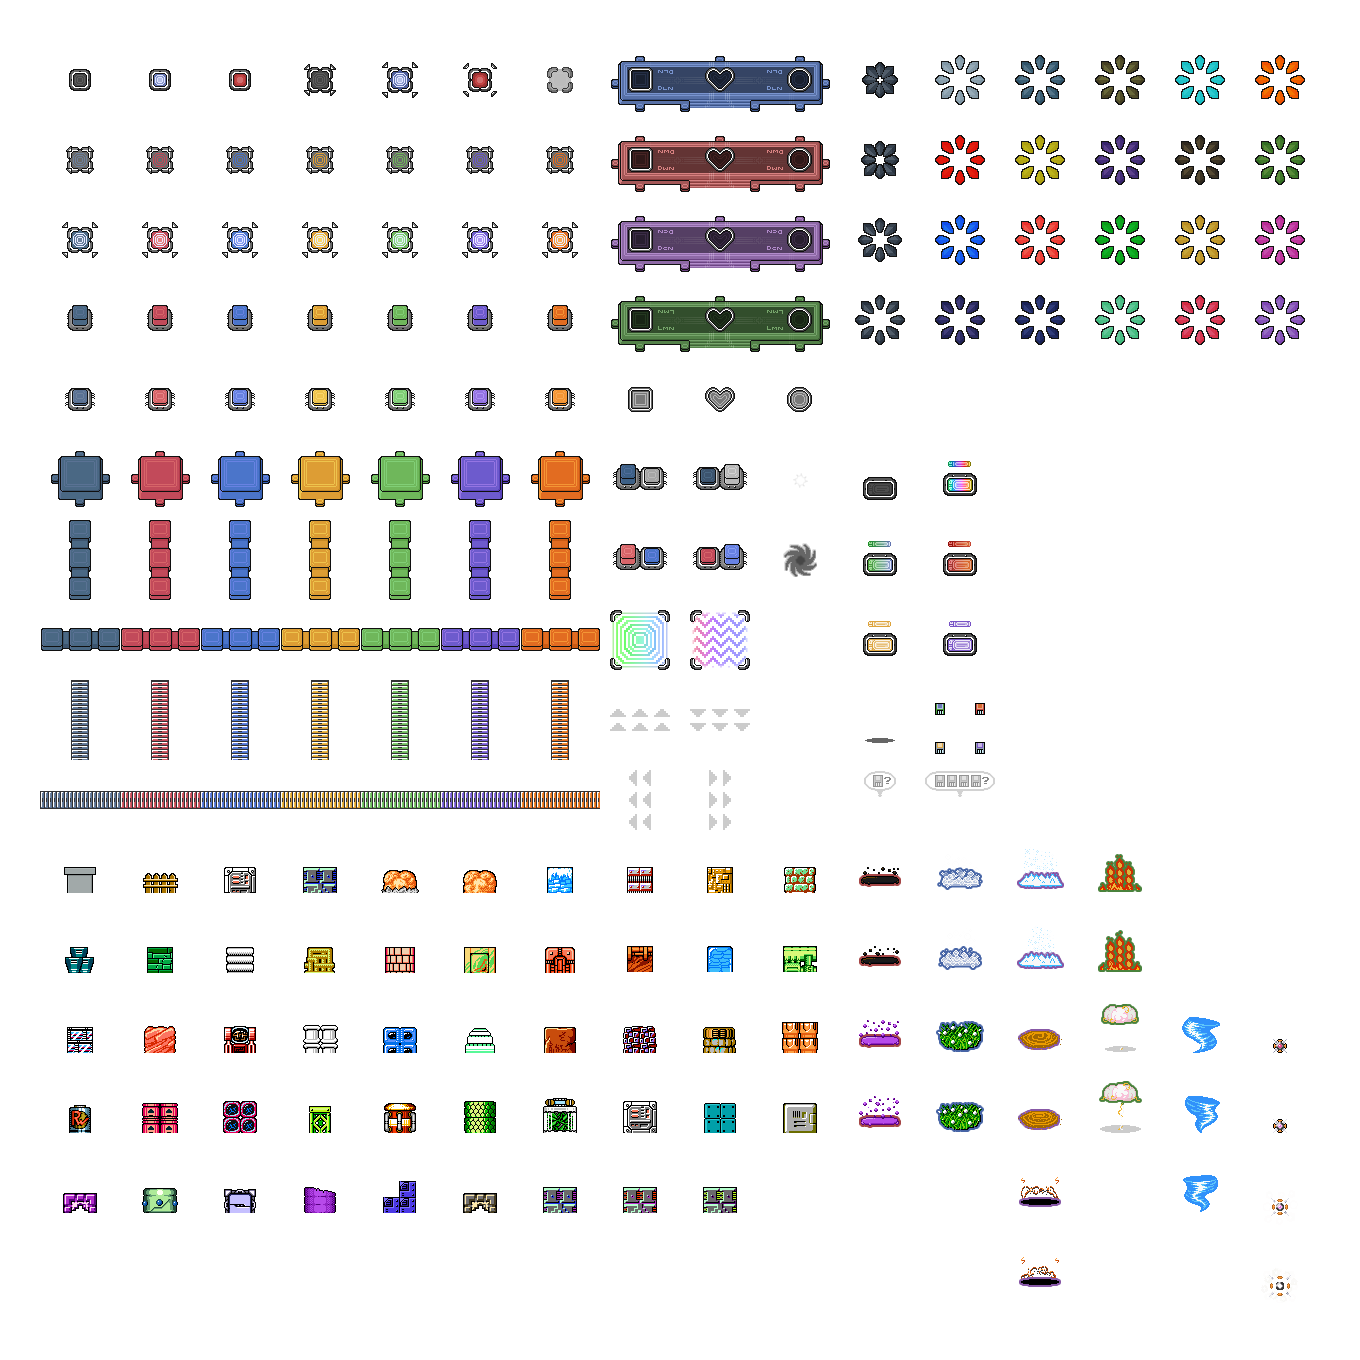
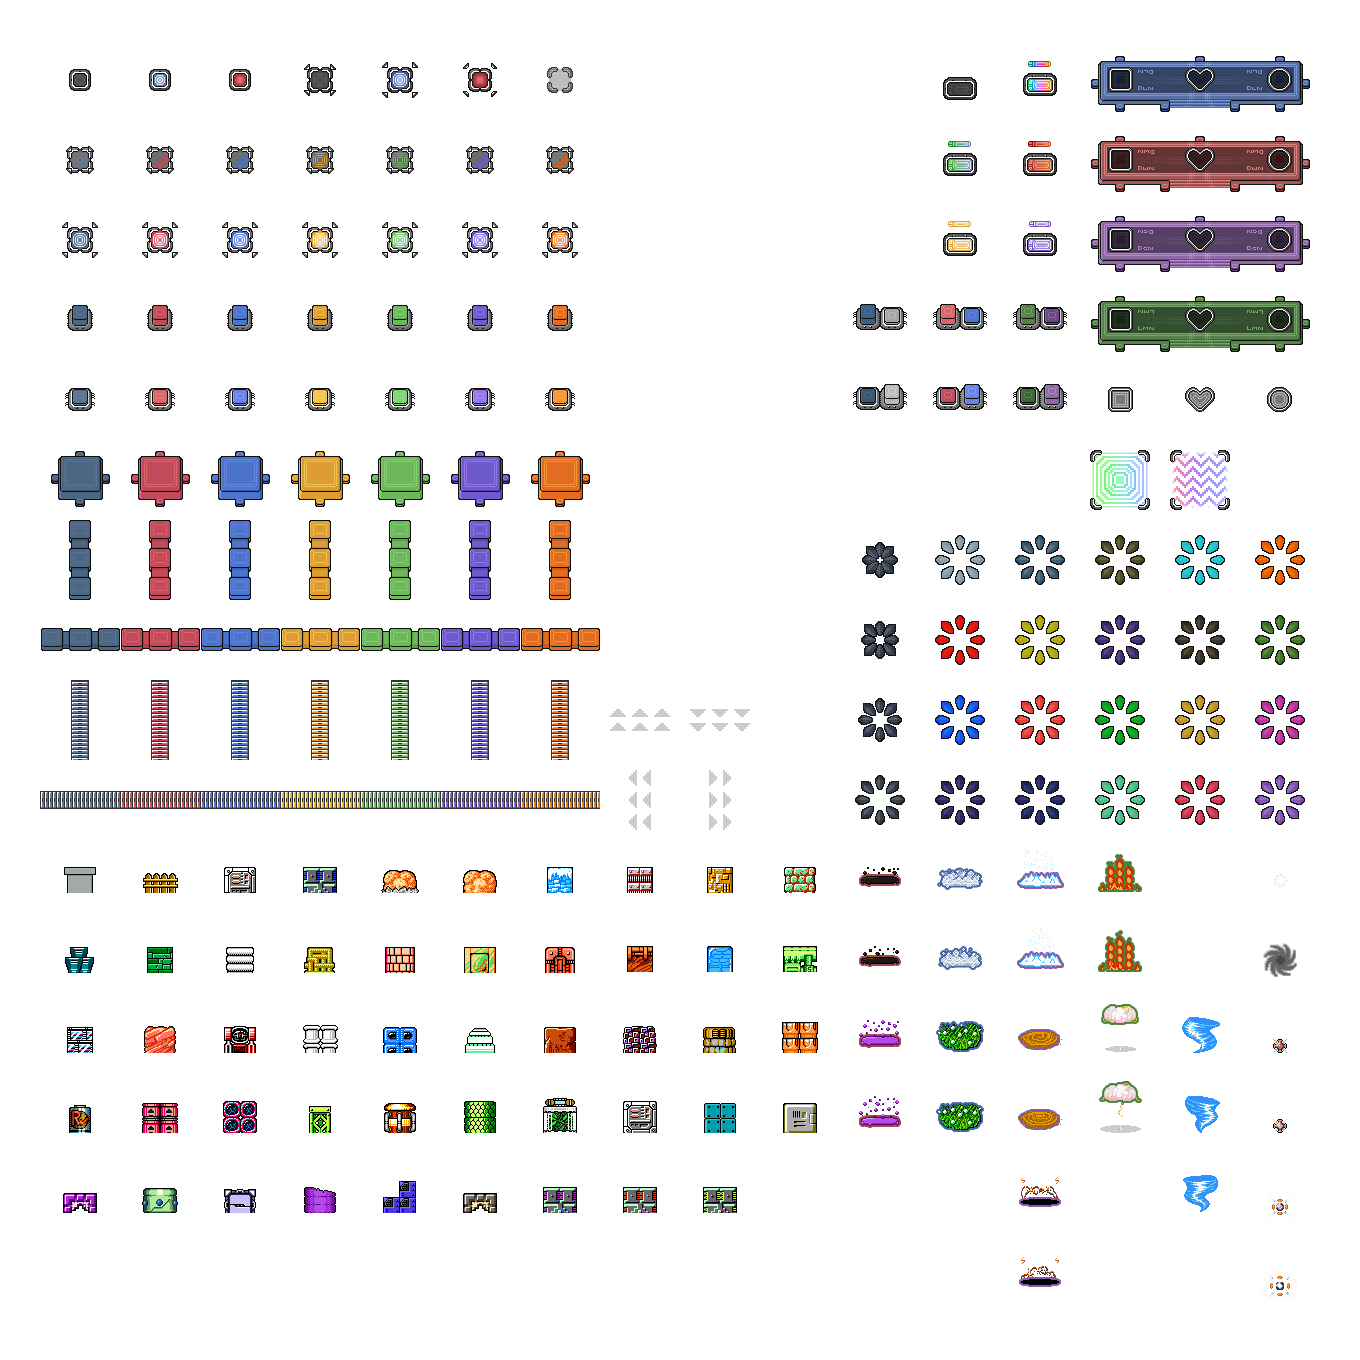
Rearranged world object tilesheet w/ better organization and updated relevant CSS styles

diff --git a/styles/world.css b/styles/world.css
@@ -538,8 +538,49 @@ html, body {
 #world #map .sprite.tile[data-portal="exit"] { background-position: -440px -40px; }
 #world #map .sprite.tile.portal.hidden { display: none; }
 
-#world #map .sprite.event.healpad { background-position: -600px -600px; }
-#world #map .sprite.event.resetpad { background-position: -680px -600px; }
+@keyframes world-sprite-playerpad-glow {
+    0%, 100% { filter: brightness(1.0) opacity(0.6); }
+    50% { filter: brightness(1.6) opacity(0.9); }
+    }
+#world #map .sprite.event[data-event*="-platform-"] {
+    /* ... */
+}
+#world #map .sprite.event[data-event*="-platform-"]:before {
+    content: "";
+    display: block;
+    position: absolute;
+    top: 0;
+    left: 0;
+    width: inherit;
+    height: inherit;
+    background: inherit;
+    filter: brightness(1) opacity(0.6);
+    transition: filter 0.3s;
+}
+#world #map .sprite.event[data-event*="-platform-"]:not(.active):before {
+    filter: brightness(1) opacity(0);
+}
+#world #map .sprite.event[data-event*="-platform-"].active.animate:before {
+    animation: world-sprite-playerpad-glow 3s ease-out infinite;
+}
+#world #map .sprite.event.lightpad-left { background-position: -1080px -40px; }
+#world #map .sprite.event.lightpad-middle { background-position: -1160px -40px; }
+#world #map .sprite.event.lightpad-right { background-position: -1240px -40px; }
+#world #map .sprite.event.wilypad-left { background-position: -1080px -120px; }
+#world #map .sprite.event.wilypad-middle { background-position: -1160px -120px; }
+#world #map .sprite.event.wilypad-right { background-position: -1240px -120px; }
+#world #map .sprite.event.cossackpad-left { background-position: -1080px -200px; }
+#world #map .sprite.event.cossackpad-middle { background-position: -1160px -200px; }
+#world #map .sprite.event.cossackpad-right { background-position: -1240px -200px; }
+#world #map .sprite.event.lalindepad-left { background-position: -1080px -280px; }
+#world #map .sprite.event.lalindepad-middle { background-position: -1160px -280px; }
+#world #map .sprite.event.lalindepad-right { background-position: -1240px -280px; }
+#world #map .sprite.event[data-event*="-platform-left"]:before { background-position: -1080px -360px; }
+#world #map .sprite.event[data-event*="-platform-middle"]:before { background-position: -1160px -360px; }
+#world #map .sprite.event[data-event*="-platform-right"]:before { background-position: -1240px -360px; }
+
+#world #map .sprite.event.healpad { background-position: -1080px -440px; }
+#world #map .sprite.event.resetpad { background-position: -1160px -440px; }
 @keyframes world-sprite-statpad-glow {
     0%, 100% { filter: brightness(1.1) saturate(2.0) opacity(1.0); }
     50% { filter: brightness(2.0) saturate(2.0) opacity(0.8); }
@@ -568,54 +609,13 @@ html, body {
 }
 #world #map .sprite.event.resetpad.animate { animation-delay: -3s; }
 
-@keyframes world-sprite-playerpad-glow {
-    0%, 100% { filter: brightness(1.0) opacity(0.6); }
-    50% { filter: brightness(1.6) opacity(0.9); }
-    }
-#world #map .sprite.event[data-event*="-platform-"] {
-    /* ... */
-}
-#world #map .sprite.event[data-event*="-platform-"]:before {
-    content: "";
-    display: block;
-    position: absolute;
-    top: 0;
-    left: 0;
-    width: inherit;
-    height: inherit;
-    background: inherit;
-    filter: brightness(1) opacity(0.6);
-    transition: filter 0.3s;
-}
-#world #map .sprite.event[data-event*="-platform-"]:not(.active):before {
-    filter: brightness(1) opacity(0);
-}
-#world #map .sprite.event[data-event*="-platform-"].active.animate:before {
-    animation: world-sprite-playerpad-glow 3s ease-out infinite;
-}
-#world #map .sprite.event.lightpad-left { background-position: -600px -40px; }
-#world #map .sprite.event.lightpad-middle { background-position: -680px -40px; }
-#world #map .sprite.event.lightpad-right { background-position: -760px -40px; }
-#world #map .sprite.event.wilypad-left { background-position: -600px -120px; }
-#world #map .sprite.event.wilypad-middle { background-position: -680px -120px; }
-#world #map .sprite.event.wilypad-right { background-position: -760px -120px; }
-#world #map .sprite.event.cossackpad-left { background-position: -600px -200px; }
-#world #map .sprite.event.cossackpad-middle { background-position: -680px -200px; }
-#world #map .sprite.event.cossackpad-right { background-position: -760px -200px; }
-#world #map .sprite.event.lalindepad-left { background-position: -600px -280px; }
-#world #map .sprite.event.lalindepad-middle { background-position: -680px -280px; }
-#world #map .sprite.event.lalindepad-right { background-position: -760px -280px; }
-#world #map .sprite.event[data-event*="-platform-left"]:before { background-position: -600px -360px; }
-#world #map .sprite.event[data-event*="-platform-middle"]:before { background-position: -680px -360px; }
-#world #map .sprite.event[data-event*="-platform-right"]:before { background-position: -760px -360px; }
-
-#world #map .sprite.event.console { background-position: -600px -40px; }
-#world #map .sprite.event.console.multi { background-position: -680px -40px; }
-#world #map .sprite.event.console.healing { background-position: -600px -120px; }
-#world #map .sprite.event.console.weapons { background-position: -680px -120px; }
-#world #map .sprite.event.console.items { background-position: -600px -200px; }
-#world #map .sprite.event.console.misc { background-position: -680px -200px; }
-#world #map .sprite.event.console.off { background-position: -600px -40px; }
+#world #map .sprite.event.console { background-position: 0 0; }
+#world #map .sprite.event.console.off { background-position: -920px -40px; }
+#world #map .sprite.event.console.multi { background-position: -1000px -40px; }
+#world #map .sprite.event.console.auto { background-position: -920px -120px; }
+#world #map .sprite.event.console.reggae { background-position: -1000px -120px; }
+#world #map .sprite.event.console.kalinka { background-position: -920px -200px; }
+#world #map .sprite.event.console.plum { background-position: -1000px -200px; }
 
 #world #map .sprite.tile.button-up { background-position: -40px -280px; }
 #world #map .sprite.tile.button-down { background-position: -40px -360px; }
@@ -634,12 +634,14 @@ html, body {
 #world #map .sprite.tile.button.orange.up { background-position: -520px -280px; }
 #world #map .sprite.tile.button.orange.down { background-position: -520px -360px; }
 
-#world #map .sprite.tile.switch-up { background-position: -600px -440px; }
-#world #map .sprite.tile.switch-down { background-position: -680px -440px; }
-#world #map .sprite.tile.switch.black-white.up { background-position: -600px -440px; }
-#world #map .sprite.tile.switch.black-white.down { background-position: -680px -440px; }
-#world #map .sprite.tile.switch.red-blue.up { background-position: -600px -520px; }
-#world #map .sprite.tile.switch.red-blue.down { background-position: -680px -520px; }
+#world #map .sprite.tile.switch-up { background-position: 0 0; }
+#world #map .sprite.tile.switch-down { background-position: 0 0; }
+#world #map .sprite.tile.switch.black-white.up { background-position: -840px -280px; }
+#world #map .sprite.tile.switch.black-white.down { background-position: -840px -360px; }
+#world #map .sprite.tile.switch.red-blue.up { background-position: -920px -280px; }
+#world #map .sprite.tile.switch.red-blue.down { background-position: -920px -360px; }
+#world #map .sprite.tile.switch.green-purple.up { background-position: -1000px -280px; }
+#world #map .sprite.tile.switch.green-purple.down { background-position: -1000px -360px; }
 
 #world #map .sprite.block.fence-block { background-position: -120px -840px; }
 
@@ -731,6 +733,10 @@ html, body {
 #world #map .sprite.block.barrier-block.orange-midd { background-position: -520px -440px; }
 #world #map .sprite.block.barrier-block.orange-vert { background-position: -520px -520px; }
 #world #map .sprite.block.barrier-block.orange-horz { background-position: -520px -600px; }
+
+#world #map .sprite.gate.star-gate { background-position: -40px -520px; }
+#world #map .sprite.gate.star-gate.vertical { background-position: -440px -520px; }
+#world #map .sprite.gate.star-gate.horizontal { background-position: -440px -600px; }
 
 @keyframes sprite-hazard-crude-oil { 0%, 100% { background-position: -840px -840px; } 50% { background-position: -840px -920px;  }  }
 @keyframes sprite-hazard-foamy-bubbles { 0%, 100% { background-position: -920px -840px; } 50% { background-position: -920px -920px;  }  }
